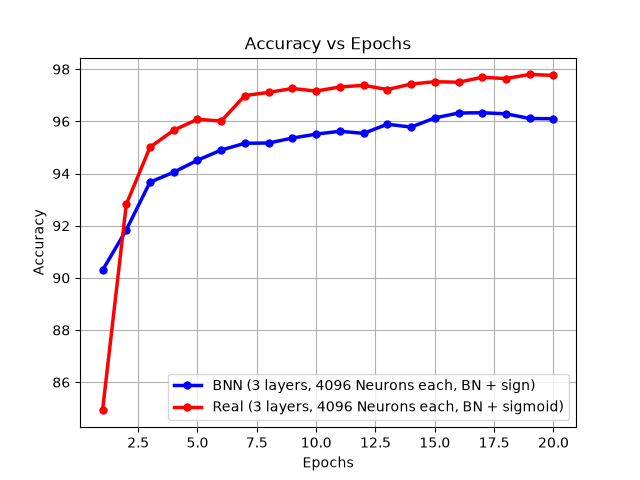
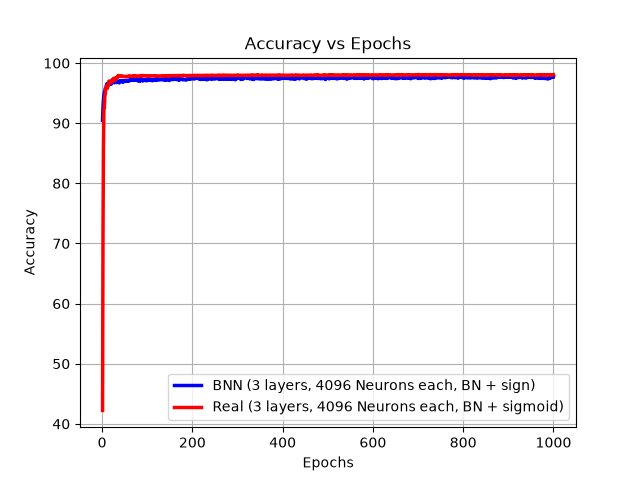
run for 1000 epochs

diff --git a/test_pytorch.py b/test_pytorch.py
@@ -1,0 +1,10 @@
+import torch
+
+device = "cuda" if torch.cuda.is_available() else "cpu"
+
+a = torch.randn(10000, 10000, device=device)
+b = torch.randn(10000, 10000, device=device)
+# Perform matrix multiplication
+c = torch.matmul(a, b)
+
+print(torch.cuda.is_available())

diff --git a/Plots.py b/Plots.py
@@ -10,8 +10,8 @@ real_acc *= 100
 epochs_bnn = range(1, len(bnn_acc) + 1)
 epochs_real = range(1, len(real_acc) + 1)
 
-plt.plot(epochs_bnn, bnn_acc, label='BNN (3 layers, 4096 Neurons each, BN + sign)', color='blue', marker='o', lw=2.5, ms=5)
-plt.plot(epochs_real, real_acc, label='Real (3 layers, 4096 Neurons each, BN + sigmoid)', color='red', marker='o', lw=2.5, ms=5)
+plt.plot(epochs_bnn, bnn_acc, label='BNN (3 layers, 4096 Neurons each, BN + sign)', color='blue', lw=2.5, marker='o', markersize=4)
+plt.plot(epochs_real, real_acc, label='Real (3 layers, 4096 Neurons each, BN + sigmoid)', color='red', lw=2.5, marker='o', markersize=4)
 plt.xlabel('Epochs')
 plt.ylabel('Accuracy')
 plt.title('Accuracy vs Epochs')

diff --git a/Real_weighted_model_pytorch_inbuilt.py b/Real_weighted_model_pytorch_inbuilt.py
@@ -29,7 +29,7 @@ Y_t = torch.load("test_labels.pt").to(device)
 Y = torch.argmax(Y, dim=0)
 Y_t = torch.argmax(Y_t, dim=0)
 
-B = 600
+B = 1500
 
 train_loader = DataLoader(TensorDataset(X, Y), batch_size=B, shuffle=True)
 
@@ -37,7 +37,7 @@ optimizer = torch.optim.Adam(model.parameters(), lr=0.7)
 
 criterion = nn.CrossEntropyLoss()
 
-epochs = 20
+epochs = 1000
 accuracy_history = []
 for epoch in range(epochs):
     model.train()

diff --git a/BNN_pytorch.py b/BNN_pytorch.py
@@ -100,7 +100,7 @@ Y_t = torch.load('test_labels.pt', map_location=device)
 eta = 0.7
 decay = 0.95
 mem = 0.8
-epochs = 20
+epochs = 1000
 v_W, v_b, v_gamma, v_beta = [torch.zeros_like(w) for w in weights], [torch.zeros_like(b) for b in biases], [torch.zeros_like(g) for g in gamma], [torch.zeros_like(b) for b in beta]
 accuracy_history = []
 

diff --git a/Real_weighted_model_pytorch.py b/Real_weighted_model_pytorch.py
@@ -102,7 +102,7 @@ X_t = torch.load('test_images.pt', map_location=device)
 Y_t = torch.load('test_labels.pt', map_location=device)
 
 eta = 0.7
-epochs = 20
+epochs = 1000
 mem = 0.8
 v_W, v_b, v_gamma, v_beta = [torch.zeros_like(W, device=device) for W in weights], [torch.zeros_like(b, device=device) for b in biases], [torch.zeros_like(g, device=device) for g in gamma], [torch.zeros_like(b, device=device) for b in beta]
 accuracy_history = []